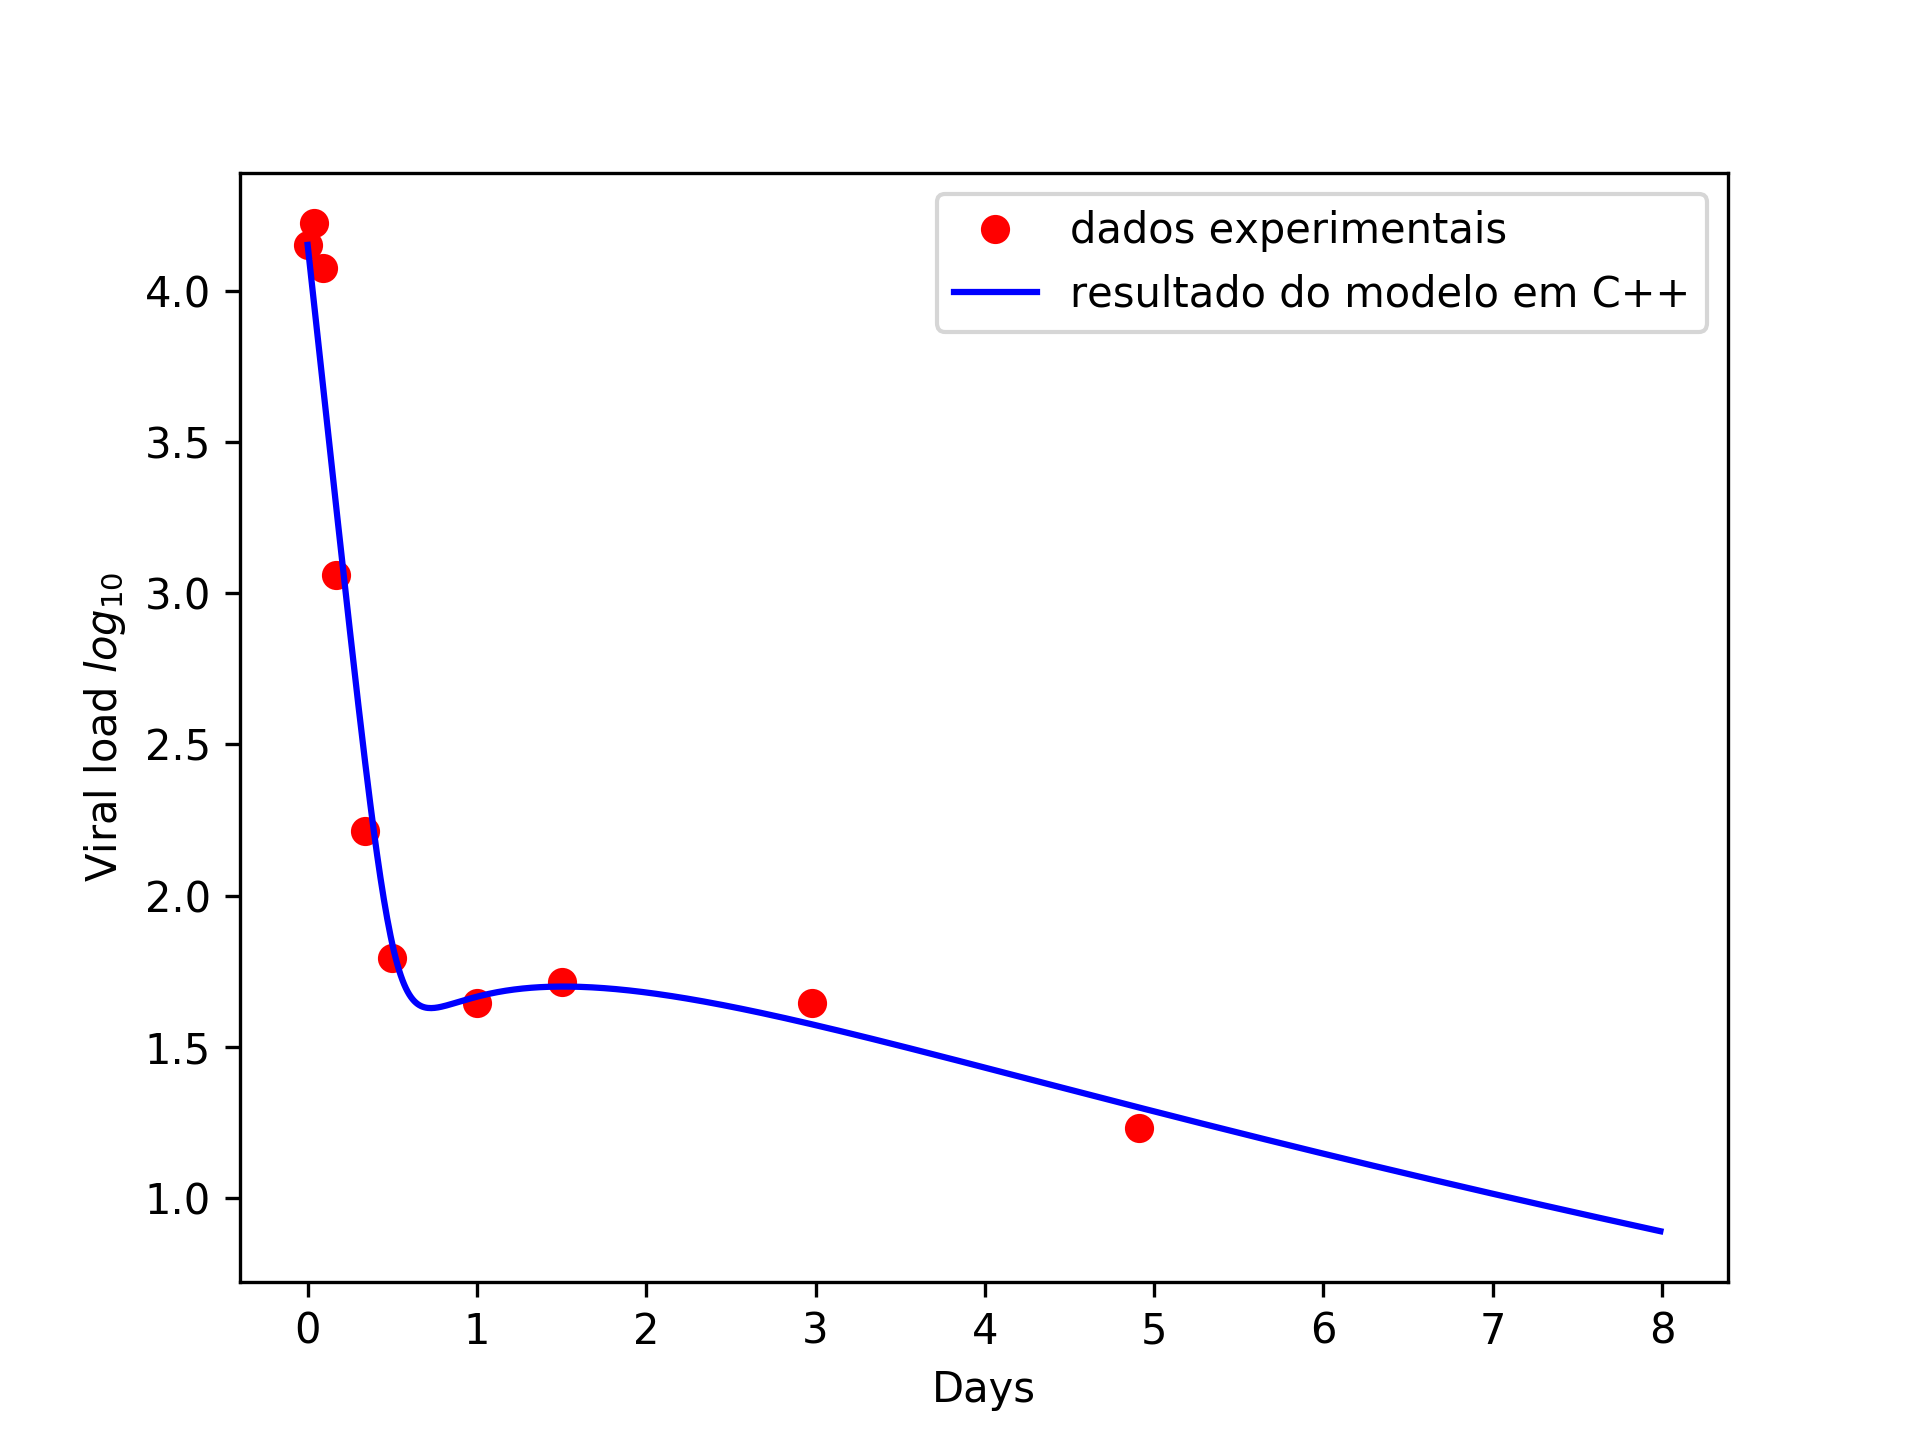
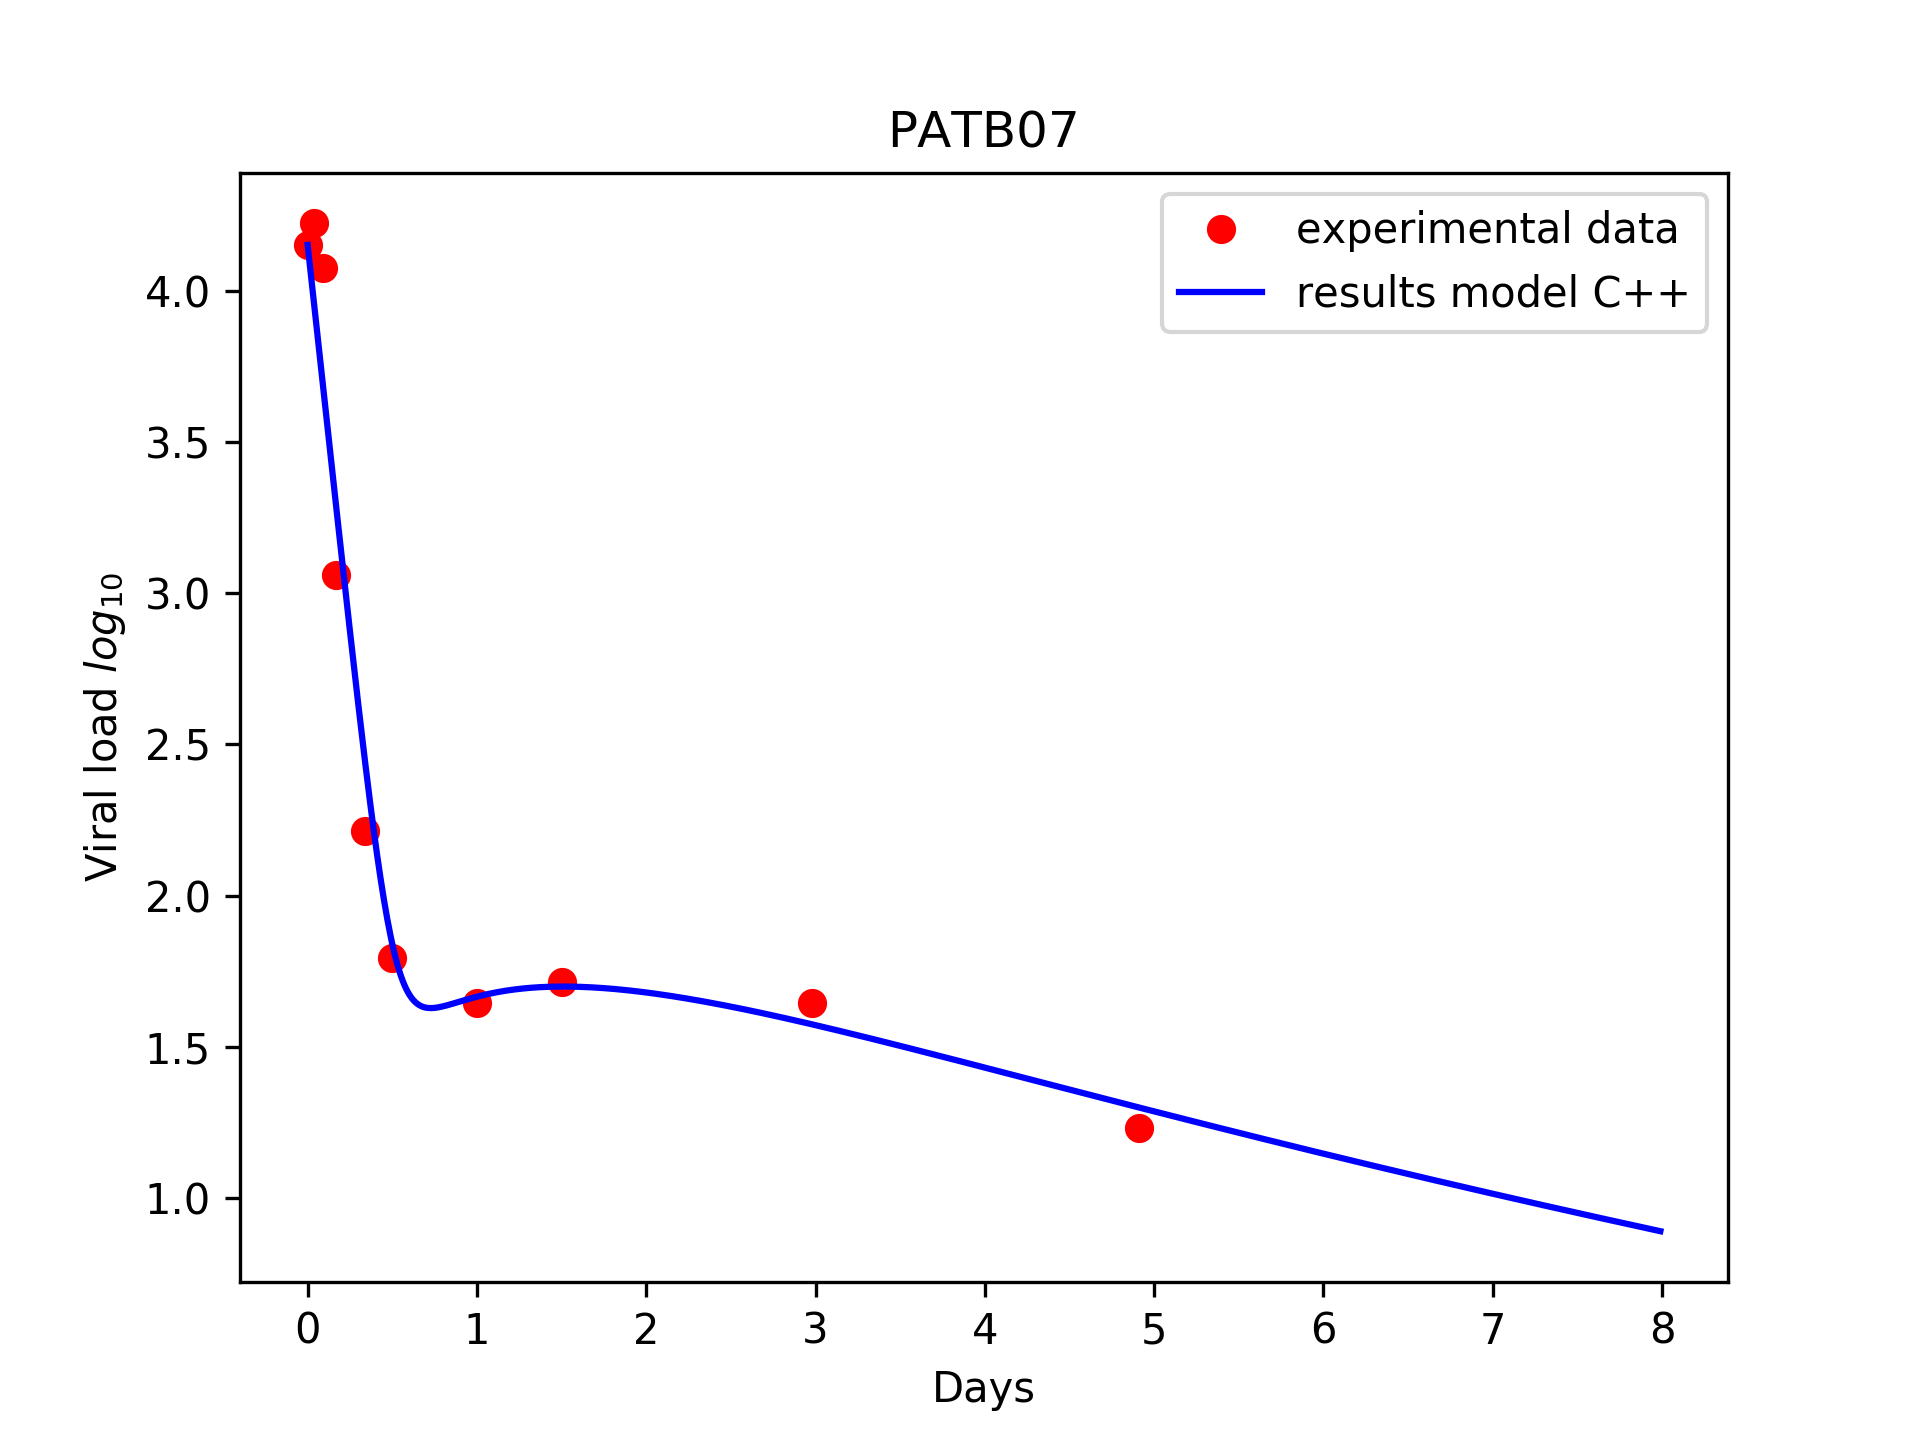
plot resultado  modelo com dados em ingles

Changed region(s): [[0.5, 0.125, 0.875, 0.2188], [0.4688, 0.0625, 0.5625, 0.0938]]

diff --git a/codigo_C++lt5/differential_evolution/depend/plotDados_e_Modelo.py b/codigo_C++lt5/differential_evolution/depend/plotDados_e_Modelo.py
@@ -54,8 +54,20 @@ patients.append(PATC10)
 ####SELECIONE AQUI O PACIENTE!!!!!!!!!!!!!!!!!!!!!!!!!!!!!!!!!!!!!!!!!!!
 pat_select = 0#1#2#...
 
-plt.plot(t_exp[pat_select], patients[pat_select], 'or', label="dados experimentais")
-plt.plot(tempo, viral_load, '-b', label="resultado do modelo em C++")
+pat_name = []
+pat_name.append("PATB07")
+pat_name.append("PATB09")
+pat_name.append("PATB08")
+pat_name.append("PATB16")
+pat_name.append("PATB17")
+pat_name.append("PATB06")
+pat_name.append("PATC05")
+pat_name.append("PATC06")
+pat_name.append("PATC09")
+pat_name.append("PATC10")
+plt.plot(t_exp[pat_select], patients[pat_select], 'or', label="experimental data")
+plt.plot(tempo, viral_load, '-b', label="results model C++")
+plt.title(pat_name[pat_select])
 plt.ylabel("Viral load $log_{10}$")
 plt.xlabel("Days")
 plt.legend()
